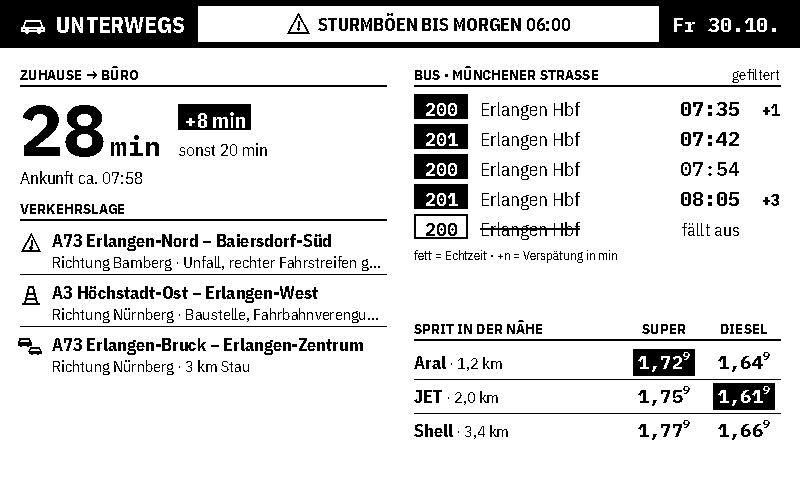
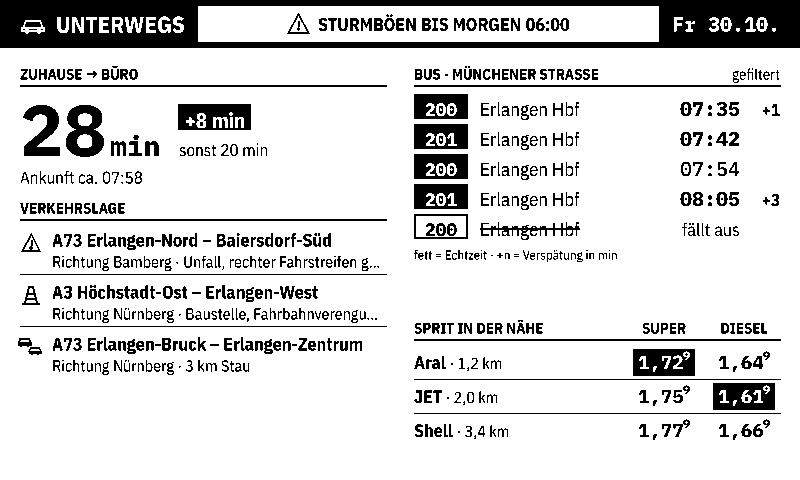
7in5: Text überabgetastet zeichnen (bessere Lesbarkeit)
IBM Plex ist nicht für die direkte 1-Bit-Ausgabe optimiert; Strichstärken
und Buchstabenabstände wirkten unruhig. Text wird jetzt vierfach groß
gezeichnet, verkleinert und erst dann mit einer Schwelle in Schwarz/Weiß
umgewandelt. Breitenmessung nutzt dieselbe Schrift, damit Umbrüche und
Kürzungen weiter stimmen. Vorschaubilder aktualisiert.

Claude-Session: https://claude.ai/code/session_016wkZKn98fmZMZHAHDvySmP

diff --git a/7in5/infotafel/render.py b/7in5/infotafel/render.py
@@ -1,8 +1,11 @@
 """Zeichen-Grundlagen: Schriften, Textumbruch, Kopfzeile, Abschnittsüberschriften.
 
-Gezeichnet wird direkt in ein 1-Bit-Bild (Modus "1"): Text ohne Kantenglättung,
-damit das e-Paper scharfe Kanten ohne Grauraster zeigt.
+Gezeichnet wird in ein 1-Bit-Bild (Modus "1"), damit das e-Paper scharfe Kanten
+ohne Grauraster zeigt. Text wird dafür vierfach vergrößert gezeichnet, verkleinert
+und erst dann in Schwarz/Weiß umgewandelt: Das ergibt gleichmäßigere Strichstärken
+und Abstände als die direkte 1-Bit-Ausgabe der (nicht für Pixel optimierten) Schrift.
 """
+import math
 from dataclasses import dataclass
 from datetime import datetime
 from functools import lru_cache
@@ -16,6 +19,8 @@ W, H = 800, 480
 HEADER = 48
 PAD = 20
 BLACK, WHITE = 0, 255
+SS = 4                 # Überabtastung beim Textzeichnen
+INK_THRESHOLD = 105    # ab dieser Deckung (0–255) wird ein Pixel schwarz; kleiner = kräftiger
 FONT_DIR = Path(__file__).with_name("fonts")
 
 WEEKDAYS = ["Mo", "Di", "Mi", "Do", "Fr", "Sa", "So"]
@@ -31,6 +36,18 @@ def sans(size, weight="regular"):
 @lru_cache(maxsize=None)
 def mono(size, bold=True):
     return ImageFont.truetype(str(FONT_DIR / f"IBMPlexMono-{'Bold' if bold else 'Medium'}.ttf"), size)
+
+
+@lru_cache(maxsize=None)
+def _big(path, size):
+    return ImageFont.truetype(path, size * SS)
+
+
+def _scaled(font):
+    return _big(font.path, font.size)
+
+
+_INK = [255 if v >= INK_THRESHOLD else 0 for v in range(256)]
 
 
 def de_num(value, decimals=0, sign=False):
@@ -67,10 +84,23 @@ class Canvas:
 
     # --- Text -------------------------------------------------------------------
     def width(self, text, font):
-        return self.draw.textlength(text, font=font)
+        return self.draw.textlength(text, font=_scaled(font)) / SS
 
     def text(self, xy, text, font, anchor="la", fill=BLACK):
-        self.draw.text(xy, text, font=font, fill=fill, anchor=anchor)
+        """Text überabgetastet zeichnen (siehe Moduldoku)."""
+        if not text:
+            return
+        big = _scaled(font)
+        l, t, r, b = big.getbbox(text, anchor=anchor)
+        # Ausschnitt auf Vielfache von SS ausrichten, damit die Verkleinerung pixelgenau ist
+        ox, oy = math.floor(l / SS) * SS - SS, math.floor(t / SS) * SS - SS
+        w = math.ceil((r - ox) / SS + 1) * SS
+        h = math.ceil((b - oy) / SS + 1) * SS
+        layer = Image.new("L", (w, h), 0)
+        ImageDraw.Draw(layer).text((-ox, -oy), text, font=big, fill=255, anchor=anchor)
+        mask = layer.resize((w // SS, h // SS), Image.BOX).point(_INK).convert("1")
+        x, y = xy
+        self.image.paste(fill, (round(x + ox / SS), round(y + oy / SS)), mask)
 
     def fit(self, text, font, max_width):
         """Kürzt ``text`` mit "…", bis er in ``max_width`` passt."""
